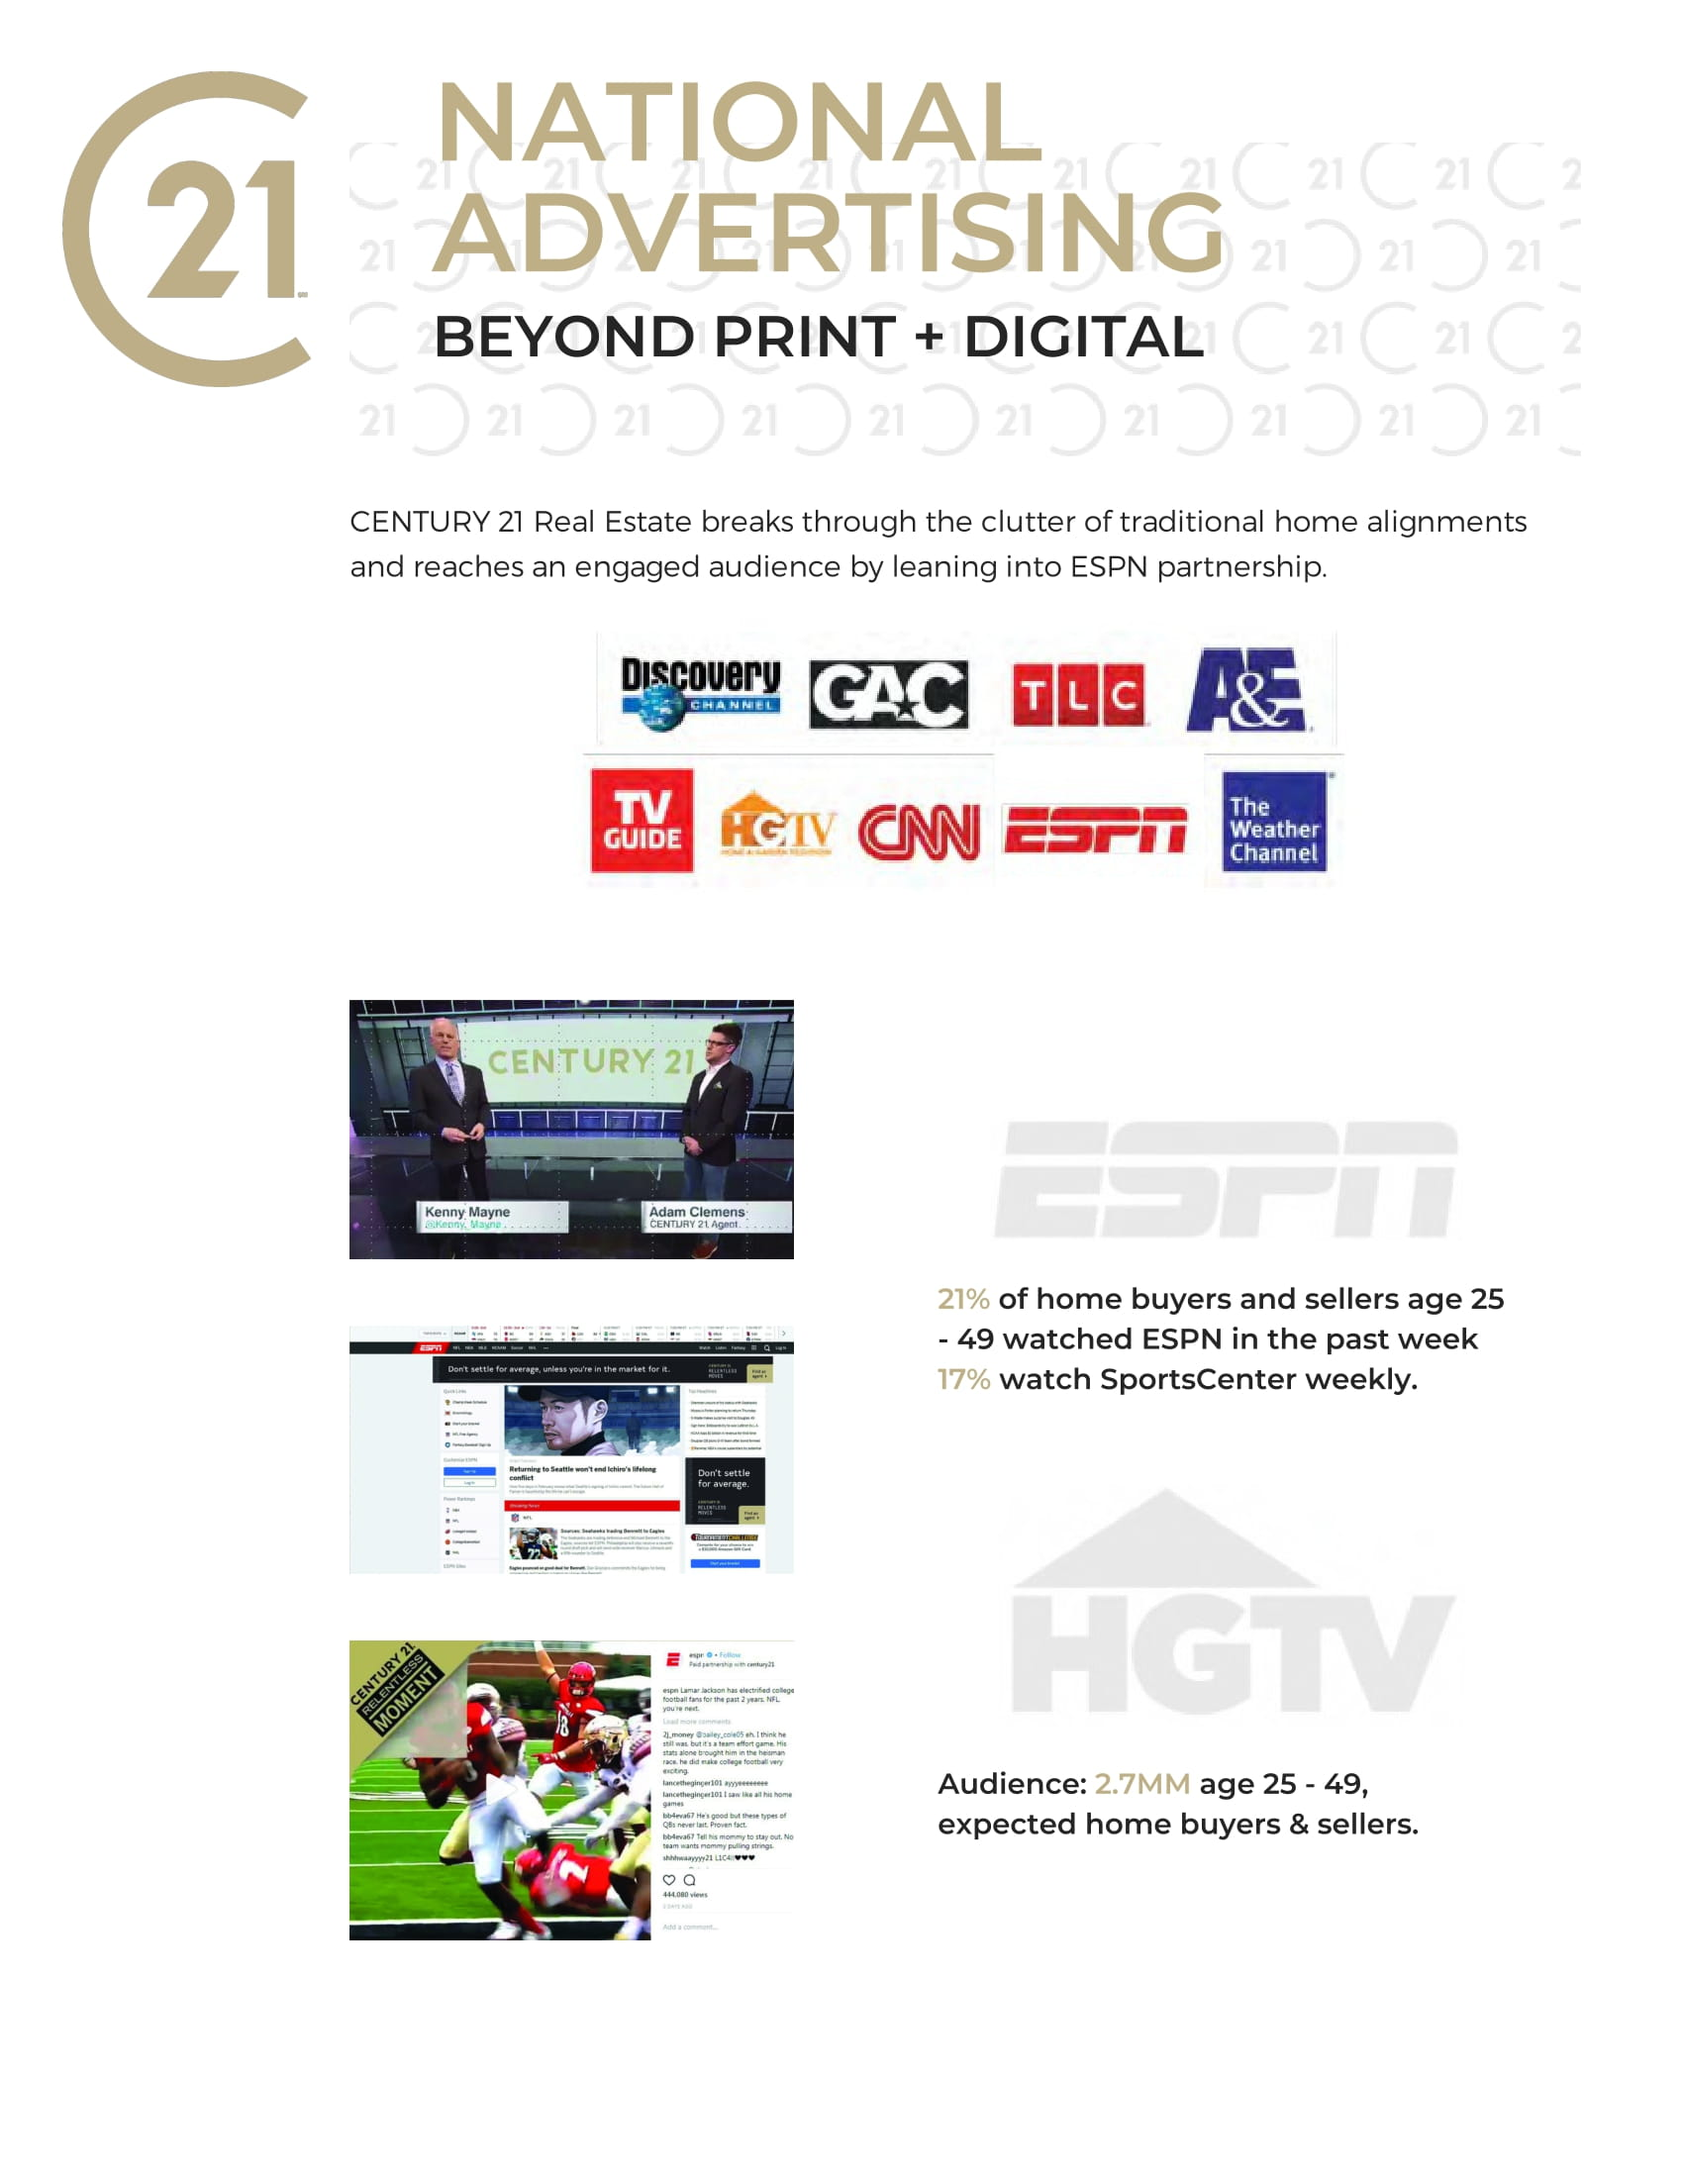
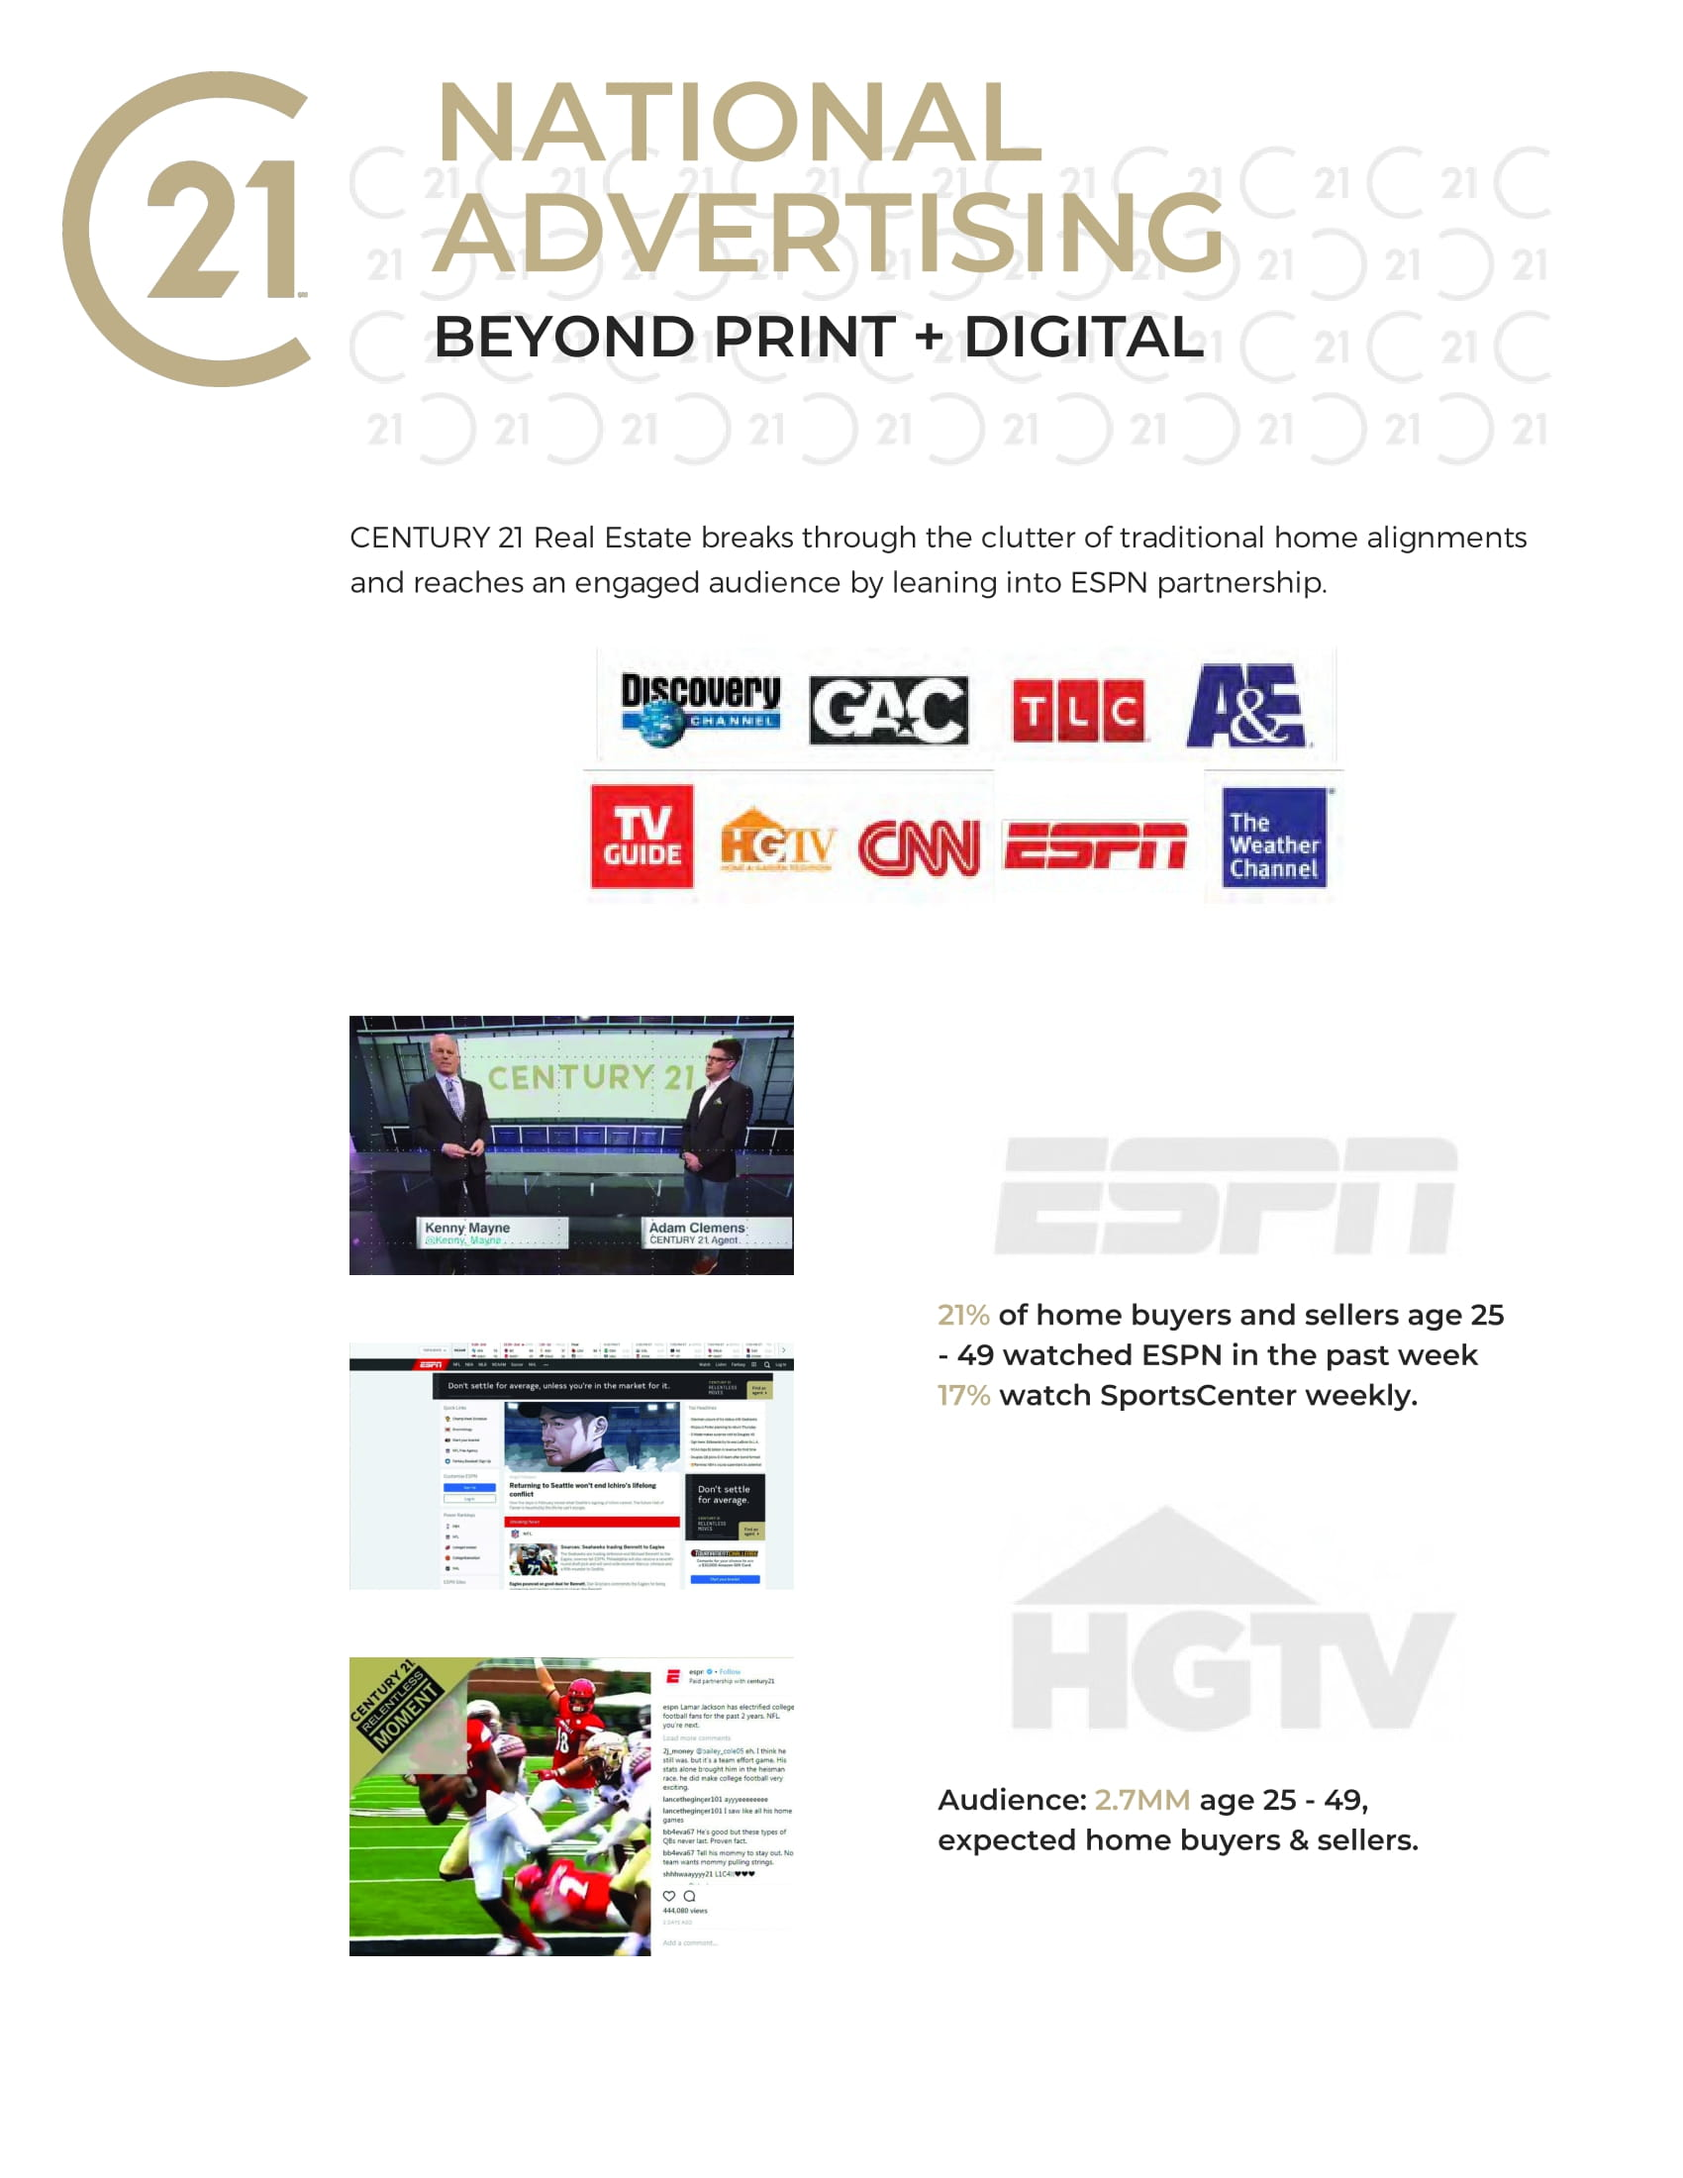
Change C21 reports

Changed region(s): [[0.1871, 0.2164, 0.9041, 0.8964], [0.5612, 0.5873, 0.9041, 0.6491], [0.5612, 0.8036, 0.8418, 0.8655]]

diff --git a/assets/reports/widget/maxa_century21/seller/style.css b/assets/reports/widget/maxa_century21/seller/style.css
@@ -907,7 +907,8 @@ table td {
     background-color: #bfaf87;
     color: #fff;
     text-align: center;
-    height: 190px;
+    /*height: 190px;*/
+    height: 175px;
     display: -webkit-box;
     display: -ms-flexbox;
     display: flex;
@@ -940,7 +941,8 @@ table td {
 .chart_box {
     padding: 15px;
     background: #e6e7e8;
-    height: 190px;
+    /*height: 190px;*/
+    height: 175px;
 }
 .chart_box h4 {
     margin: 0;
@@ -958,11 +960,13 @@ table td {
     margin-top: 5px;
 }
 .chart_box img {
-  height: 180px;
+  /*height: 180px;*/
+  height: 165px;
   width: 100%
 }
 .img_badge img.img-fluid {
-    height: 190px;
+    /*height: 190px;*/
+    height: 185px;
 }
 /* pdf18 */
 /*.pdf18 {
@@ -1704,12 +1708,16 @@ ul.award_list {
   font-size: 14px;
 }
 .covid_safety_certificate .c21_watermark {
-  background: url(images/c21_watermark_white.png);
+  /*background: url(images/c21_watermark_white.png);*/
+  background: url(images/c21_watermark.png);
   width: 100%;
   position: absolute;
   bottom: 30px;
   height: 145px;
   left: 0;
+  background-position: -64px -72px;
+  background-repeat: no-repeat;
+  background-size: 895px 280px;
 }
 .social_ad_report_title {
   background-color: #bfaf87;
@@ -1891,6 +1899,9 @@ ul.award_list {
 .c21_bg {
   background: url(images/c21_watermark.png);
   margin-left: 120px;
+  background-position: -58px -75px;
+  margin-right: 10px;
+  height: 160px;
 }
 .advertising .small_big {
   font-weight: 600;

diff --git a/application/views/user/dashboard_widget.php b/application/views/user/dashboard_widget.php
@@ -913,7 +913,7 @@ jQuery(document).ready(function() {
         });  
         if(firstOpen)
         // If received list is not greater than min value than set our min value to received list length
-        if(_min>$('#pre-selected-options').val().length){
+        if($('#pre-selected-options').val() && _min>$('#pre-selected-options').val().length){
             _min = $('#pre-selected-options').val().length;;
         }
         firstOpen = false;
@@ -929,12 +929,12 @@ jQuery(document).ready(function() {
     });
 
     $('#select-comps').on('hide.bs.modal', function(event) {
-        if($('#pre-selected-options').val().length < _min){
+        if($('#pre-selected-options').val() && $('#pre-selected-options').val().length < _min){
             alert('Please select '+_min+' comparables');
             event.stopPropagation();
             return false;
         }
-        if($('#pre-selected-options').val().length > _max){
+        if($('#pre-selected-options').val() && $('#pre-selected-options').val().length > _max){
             alert('Please do not select more than '+_max+' comparables');
             event.stopPropagation();
             return false;
@@ -988,6 +988,23 @@ jQuery(document).ready(function() {
                        // event.stopPropagation();
                         return false;
                     }
+                }
+                else if(presentation == 'seller')
+                {
+                  var page_length = $("#owl-example .custom-checkbox:checked").length;
+                  var comparable_length = $('#pre-selected-options option:selected').length;
+                  if(comparable_length > 0 && comparable_length < 5) {
+                    page_length--; 
+                  }
+                  if(page_length%2 != 0) {
+                    var confirm_go = confirm("If you intend to print and bind the presentation, please make sure you keep the total page count to an even number. Only remove pages in multiples of 2. \n Press OK to continue. \n Press Cancel to update selection of pages.");
+                    if(confirm_go) {
+                      return true;
+                    }
+                    else {
+                      return false;
+                    }
+                  }
                 }
             }
             return true;
@@ -1651,6 +1668,8 @@ function submitFormAndGetReport()
             }
            if(size<=max_size)
            {
+              file_obj.parents('.image_preview_container').find('.widget_image_preview').addClass('loading_preview');
+
               $.ajax({
                 url: "<?php echo base_url('widget/upload_image') ?>",
                 type: "POST",
@@ -1673,6 +1692,7 @@ function submitFormAndGetReport()
                    alert(data.error);
                  }
 
+                file_obj.parents('.image_preview_container').find('.widget_image_preview').removeClass('loading_preview');
               });
             }//end size
             else
@@ -1697,8 +1717,21 @@ function submitFormAndGetReport()
             numberOfLines = (text.match(/\n/g) || []).length + 1,
             maxRows = parseInt(textarea.attr('rows'));
 
+        var attr_id = textarea.attr("id");
+        var check_alert_div = attr_id+"-alert-div";
         if (event.which === 13 && numberOfLines >= maxRows ) {
+          if($("#"+check_alert_div).length){
+            $("#"+check_alert_div).show();
+          }
+          else {
+            $(textarea.after('<div style = "margin-top:10px;" id="'+check_alert_div+'" class="alert alert-warning">You have reached maximum number of lines</div>'))
+          }
           return false;
+        }
+        if(numberOfLines < maxRows) {
+          if($("#"+check_alert_div).length){
+            $("#"+check_alert_div).hide();
+          }
         }
   });
 

diff --git a/application/views/user/widget/additional_fields/maxa_century21/modals.php b/application/views/user/widget/additional_fields/maxa_century21/modals.php
@@ -479,6 +479,9 @@ Award 5 2021';
 <!-- modal for Social Ad Report  -->
 </div>
 <style type="text/css">
+    #buyerPresentationButton {
+        display: none !important;
+    }
     .c21-txt-modal textarea {
         height: 400px;
         width: 100%;
@@ -487,6 +490,12 @@ Award 5 2021';
         height: 300px;
         background-repeat: no-repeat;
         background-size: contain;
+        /*background-size: auto;*/
+        background-position: center;
+    }
+    .widget_image_preview.loading_preview {
+        background-size: auto;
+        background-image: url(<?php echo base_url('assets/images/gears.gif'); ?>) !important;
     }
     .social-ad-text label {
         margin-top: 10px;
